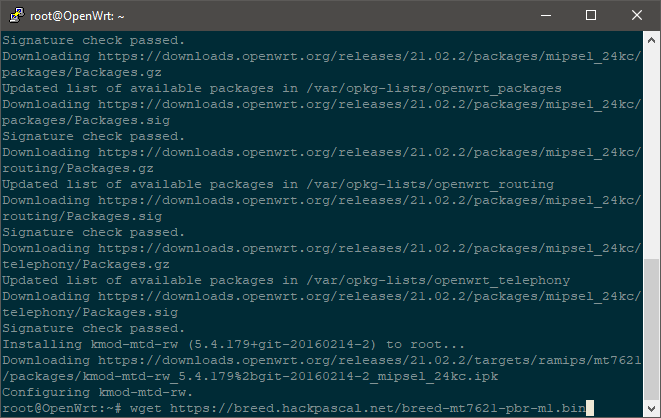
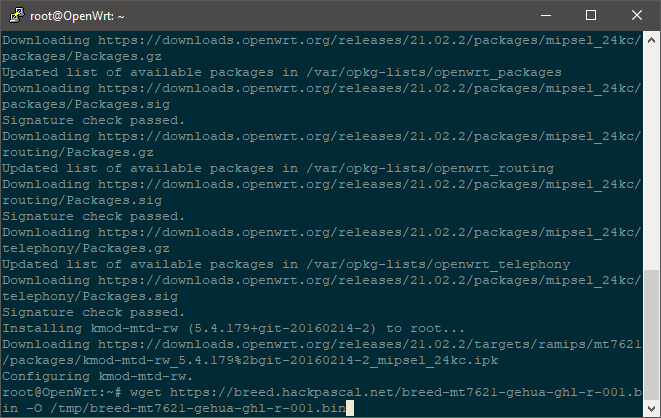
update article

Changed region(s): [[0.0, 0.0933, 0.9682, 0.9952], [0.9682, 0.622, 0.9985, 0.6531]]

diff --git a/posts/bolt-arion-openwrt/index.html b/posts/bolt-arion-openwrt/index.html
@@ -34,7 +34,7 @@
 <meta name=twitter:title content="Instalasi OpenWrt di BOLT! Arion (PL100)">
 <meta name=twitter:description content="Pada kesempatan kali ini, saya merilis OpenWrt untuk router BOLT! Arion (PL100)">
 <script type=application/ld+json>{"@context":"https://schema.org","@type":"BreadcrumbList","itemListElement":[{"@type":"ListItem","position":2,"name":"Posts","item":"https://blog.kopijahe.my.id/posts/"},{"@type":"ListItem","position":3,"name":"Instalasi OpenWrt di BOLT! Arion (PL100)","item":"https://blog.kopijahe.my.id/posts/bolt-arion-openwrt/"}]}</script>
-<script type=application/ld+json>{"@context":"https://schema.org","@type":"BlogPosting","headline":"Instalasi OpenWrt di BOLT! Arion (PL100)","name":"Instalasi OpenWrt di BOLT! Arion (PL100)","description":"Pada kesempatan kali ini, saya merilis OpenWrt untuk router BOLT! Arion (PL100)\n","keywords":[],"articleBody":"Pada kesempatan kali ini, saya merilis OpenWrt untuk router BOLT! Arion (PL100)\nSpesifikasi Teknis:\n         Architecture MIPS   Vendor Mediatek   Bootloader U-Boot   System-On-Chip MediaTek MT7621   CPU/Speed mipsel_24kc @ 880MHz 2 core   Flash-Chip MXIC MX25l25635F   Flash size 32 MiB   RAM 128 MiB   Wireless MT7603 2.4GHz 802.11bgn + MT7612 5.8GHz 802.11ac   Ethernet 2x 10/100/1000 Mbit/s   Switch MediaTek MT7530   USB None   Serial Yes    Alat yang dibutuhkan:\n USB to serial adapter (disarankan: CH341A) 3 buah kabel jumper (Opsional) pin header Solder dan timah Kabel LAN Komputer/Laptop  Software yang dibutuhkan:\n OpenWrt untuk Arion (unduh dan ekstrak) PuTTY Tftpd64  Langkah-langkah:\n Bongkar router dengan melepas 2 baut yang ada di bagian bawah Cabut 4 kabel yang tersambung dengan modul LTE di bagian belakang   ⚠ Lepaskan dengan hati-hati, karena jika terlalu kuat saat mencabut kabel bisa menyebabkan konektor modul LTE ikut terlepas ⚠\n  Lepas PCB dengan melepas 2 baut yang ada\n  Balik PCB, dan perhatikan bagian J4 yang ditandai kotak merah:\n  Solder kabel atau header ke GND, TX dan RX. Berikut pinout-nya:\n   ⚠ VCC tidak perlu disambungkan\nJika kesulitan menyolder di lubang J4, bisa dilakukan di test point sampingnya sesuai pinout di atas.\n Sambungkan router ke serial adapter dengan cara berikut:     router serial adapter     GND GND   TX RX   RX TX     Set IP komputer/laptop ke 192.168.1.2 dan gateway 192.168.1.1 di pengaturan jaringan\n  Rubah nama openwrt-21.02.2-ramips-mt7621-bolt_arion-initramfs-kernel.bin menjadi openwrt.bin supaya tidak terlalu panjang\n  Buka Tftpd64, lalu tekan tombol browse ke folder di mana berkas openwrt berada (misal saya di folder C:\\bin\\tftp\\)\n  Sambungkan serial adapter ke PC, misal di sini saya menggunakan PuTTY\n  Tulis nilai COM sesuai di Device Manager, dan speed/baud rate ke 57600, lalu tekan tombol Open\n  Hidupkan router, dan tekan tombol 1 untuk masuk ke mode TFTP\n  Ganti IP di bagian Input device IP ke 192.168.1.1, lalu tekan tombol enter\n  Ganti IP di bagian Input server IP ke 192.168.1.2, lalu tekan tombol enter\n  Ketikkan openwrt.bin di bagian Input Linux Kernel filename, lalu tekan tombol enter\n  Tunggu proses booting sampai selesai Buka browser, lalu akses router di http://192.168.1.1 Login dengan username root dan tanpa password Masuk ke menu System - Backup/Flash Firmware Scroll ke bagian bawah, tekan tombol Flash image...  Tekan tombol browse, lalu pilih berkas openwrt-21.02.2-ramips-mt7621-bolt_arion-squashfs-sysupgrade.bin dan tekan tombol Upload  Hilangkan centang Keep settings and retain the current configuration, lalu tekan tombol Continue   ⚠ Pastikan nilai SHA256 sudah sama dengan nilai berikut: 30f9004be28676d3f7bf57348b1eb96d07072d97c4afd690a62ac7f92a52d1bc\nJika tidak sama, maka unduh ulang berkas openwrt-nya.\n Tunggu sampai proses selesai dan anda bisa masuk kembali ke openwrt di http://192.168.1.1/   BONUS: Instalasi BREED Bootloader di BOLT! Arion (PL100)  ⚠ Jika gagal dalam instalasi, router anda akan tidak bisa digunakan, harap berhati-hati.\n  Masuk ke router lewat SSH (misalnya menggunakan PuTTY) Dalam posisi online, ketik:  opkg update \u0026\u0026 opkg install kmod-mtd-rw Unduh BREED dengan perintah:  wget https://breed.hackpascal.net/breed-mt7621-pbr-m1.bin -O /tmp/breed-mt7621-pbr-m1.bin Aktifkan modul mtd-rw dengan perintah:  insmod mtd-rw i_want_a_brick=1 Instal BREED dengan perintah:  mtd -r write /tmp/breed-mt7621-pbr-m1.bin u-boot Tunggu proses selesai, dan BREED bisa diakses di http://192.168.1.1/   Untuk mengakses BREED, diperlukan menahan tombol WPS selama beberapa detik, agar proses boot tidak lanjut ke OpenWrt.\n ","wordCount":"493","inLanguage":"en","image":"https://blog.kopijahe.my.id/../../img/bolt-arion-openwrt/banner.png","datePublished":"2022-03-13T09:34:59+07:00","dateModified":"2022-03-13T09:34:59+07:00","author":{"@type":"Person","name":"KopiJahe"},"mainEntityOfPage":{"@type":"WebPage","@id":"https://blog.kopijahe.my.id/posts/bolt-arion-openwrt/"},"publisher":{"@type":"Organization","name":"Blog KopiJahe","logo":{"@type":"ImageObject","url":"https://blog.kopijahe.my.id/favicon.ico"}}}</script>
+<script type=application/ld+json>{"@context":"https://schema.org","@type":"BlogPosting","headline":"Instalasi OpenWrt di BOLT! Arion (PL100)","name":"Instalasi OpenWrt di BOLT! Arion (PL100)","description":"Pada kesempatan kali ini, saya merilis OpenWrt untuk router BOLT! Arion (PL100)\n","keywords":[],"articleBody":"Pada kesempatan kali ini, saya merilis OpenWrt untuk router BOLT! Arion (PL100)\nSpesifikasi Teknis:\n         Architecture MIPS   Vendor Mediatek   Bootloader U-Boot   System-On-Chip MediaTek MT7621   CPU/Speed mipsel_24kc @ 880MHz 2 core   Flash-Chip MXIC MX25l25635F   Flash size 32 MiB   RAM 128 MiB   Wireless MT7603 2.4GHz 802.11bgn + MT7612 5.8GHz 802.11ac   Ethernet 2x 10/100/1000 Mbit/s   Switch MediaTek MT7530   USB None   Serial Yes    Alat yang dibutuhkan:\n USB to serial adapter (disarankan: CH341A) 3 buah kabel jumper (Opsional) pin header Solder dan timah Kabel LAN Komputer/Laptop  Software yang dibutuhkan:\n OpenWrt untuk Arion (unduh dan ekstrak) PuTTY Tftpd64  Langkah-langkah:\n Bongkar router dengan melepas 2 baut yang ada di bagian bawah Cabut 4 kabel yang tersambung dengan modul LTE di bagian belakang   ⚠ Lepaskan dengan hati-hati, karena jika terlalu kuat saat mencabut kabel bisa menyebabkan konektor modul LTE ikut terlepas ⚠\n  Lepas PCB dengan melepas 2 baut yang ada\n  Balik PCB, dan perhatikan bagian J4 yang ditandai kotak merah:\n  Solder kabel atau header ke GND, TX dan RX. Berikut pinout-nya:\n   ⚠ VCC tidak perlu disambungkan\nJika kesulitan menyolder di lubang J4, bisa dilakukan di test point sampingnya sesuai pinout di atas.\n Sambungkan router ke serial adapter dengan cara berikut:     router serial adapter     GND GND   TX RX   RX TX     Set IP komputer/laptop ke 192.168.1.2 dan gateway 192.168.1.1 di pengaturan jaringan\n  Rubah nama openwrt-21.02.2-ramips-mt7621-bolt_arion-initramfs-kernel.bin menjadi openwrt.bin supaya tidak terlalu panjang\n  Buka Tftpd64, lalu tekan tombol browse ke folder di mana berkas openwrt berada (misal saya di folder C:\\bin\\tftp\\)\n  Sambungkan serial adapter ke PC, misal di sini saya menggunakan PuTTY\n  Tulis nilai COM sesuai di Device Manager, dan speed/baud rate ke 57600, lalu tekan tombol Open\n  Hidupkan router, dan tekan tombol 1 untuk masuk ke mode TFTP\n  Ganti IP di bagian Input device IP ke 192.168.1.1, lalu tekan tombol enter\n  Ganti IP di bagian Input server IP ke 192.168.1.2, lalu tekan tombol enter\n  Ketikkan openwrt.bin di bagian Input Linux Kernel filename, lalu tekan tombol enter\n  Tunggu proses booting sampai selesai Buka browser, lalu akses router di http://192.168.1.1 Login dengan username root dan tanpa password Masuk ke menu System - Backup/Flash Firmware Scroll ke bagian bawah, tekan tombol Flash image...  Tekan tombol browse, lalu pilih berkas openwrt-21.02.2-ramips-mt7621-bolt_arion-squashfs-sysupgrade.bin dan tekan tombol Upload  Hilangkan centang Keep settings and retain the current configuration, lalu tekan tombol Continue   ⚠ Pastikan nilai SHA256 sudah sama dengan nilai berikut: 30f9004be28676d3f7bf57348b1eb96d07072d97c4afd690a62ac7f92a52d1bc\nJika tidak sama, maka unduh ulang berkas openwrt-nya.\n Tunggu sampai proses selesai dan anda bisa masuk kembali ke openwrt di http://192.168.1.1/   BONUS: Instalasi BREED Bootloader di BOLT! Arion (PL100)  ⚠ Jika gagal dalam instalasi, router anda akan tidak bisa digunakan, harap berhati-hati.\n  Masuk ke router lewat SSH (misalnya menggunakan PuTTY) Dalam posisi online, ketik:  opkg update \u0026\u0026 opkg install kmod-mtd-rw Unduh BREED dengan perintah:  wget https://breed.hackpascal.net/breed-mt7621-gehua-ghl-r-001.bin -O /tmp/breed-mt7621-gehua-ghl-r-001.bin Aktifkan modul mtd-rw dengan perintah:  insmod mtd-rw i_want_a_brick=1 Instal BREED dengan perintah:  mtd -r write /tmp/breed-mt7621-gehua-ghl-r-001.bin u-boot Tunggu proses selesai, dan BREED bisa diakses di http://192.168.1.1/   Untuk mengakses BREED, diperlukan menahan tombol WPS selama beberapa detik, agar proses boot tidak lanjut ke OpenWrt.\n ","wordCount":"493","inLanguage":"en","image":"https://blog.kopijahe.my.id/../../img/bolt-arion-openwrt/banner.png","datePublished":"2022-03-13T09:34:59+07:00","dateModified":"2022-03-13T09:34:59+07:00","author":{"@type":"Person","name":"KopiJahe"},"mainEntityOfPage":{"@type":"WebPage","@id":"https://blog.kopijahe.my.id/posts/bolt-arion-openwrt/"},"publisher":{"@type":"Organization","name":"Blog KopiJahe","logo":{"@type":"ImageObject","url":"https://blog.kopijahe.my.id/favicon.ico"}}}</script>
 </head>
 <body class=dark id=top>
 <script>localStorage.getItem("pref-theme")==="light"&&document.body.classList.remove('dark')</script>
@@ -271,20 +271,20 @@ Instalasi OpenWrt di BOLT! Arion (PL100)
 <ol start=3>
 <li>Unduh BREED dengan perintah:</li>
 </ol>
-<pre tabindex=0><code>wget https://breed.hackpascal.net/breed-mt7621-pbr-m1.bin -O /tmp/breed-mt7621-pbr-m1.bin
+<pre tabindex=0><code>wget https://breed.hackpascal.net/breed-mt7621-gehua-ghl-r-001.bin -O /tmp/breed-mt7621-gehua-ghl-r-001.bin
 </code></pre><p><img loading=lazy src=../../img/bolt-arion-openwrt/breed-2.png#center alt=breed-2>
 </p>
 <ol start=4>
 <li>Aktifkan modul <code>mtd-rw</code> dengan perintah:</li>
 </ol>
 <pre tabindex=0><code>insmod mtd-rw i_want_a_brick=1
-</code></pre><p><img loading=lazy src=../../img/bolt-arion-openwrt/breed-4.png#center alt=breed-4>
+</code></pre><p><img loading=lazy src=../../img/bolt-arion-openwrt/breed-3.png#center alt=breed-3>
 </p>
 <ol start=5>
 <li>Instal BREED dengan perintah:</li>
 </ol>
-<pre tabindex=0><code>mtd -r write /tmp/breed-mt7621-pbr-m1.bin u-boot
-</code></pre><p><img loading=lazy src=../../img/bolt-arion-openwrt/breed-5.png#center alt=breed-5>
+<pre tabindex=0><code>mtd -r write /tmp/breed-mt7621-gehua-ghl-r-001.bin u-boot
+</code></pre><p><img loading=lazy src=../../img/bolt-arion-openwrt/breed-4.png#center alt=breed-4>
 </p>
 <ol start=6>
 <li>Tunggu proses selesai, dan BREED bisa diakses di <code>http://192.168.1.1/</code></li>
@@ -292,6 +292,8 @@ Instalasi OpenWrt di BOLT! Arion (PL100)
 <blockquote>
 <p>Untuk mengakses BREED, diperlukan menahan tombol WPS selama beberapa detik, agar proses boot tidak lanjut ke OpenWrt.</p>
 </blockquote>
+<p><img loading=lazy src=../../img/bolt-arion-openwrt/breed-5.png#center alt=breed-5>
+</p>
 <p><img loading=lazy src=../../img/bolt-arion-openwrt/breed-6.png#center alt=breed-6>
 </p>
 </div>
